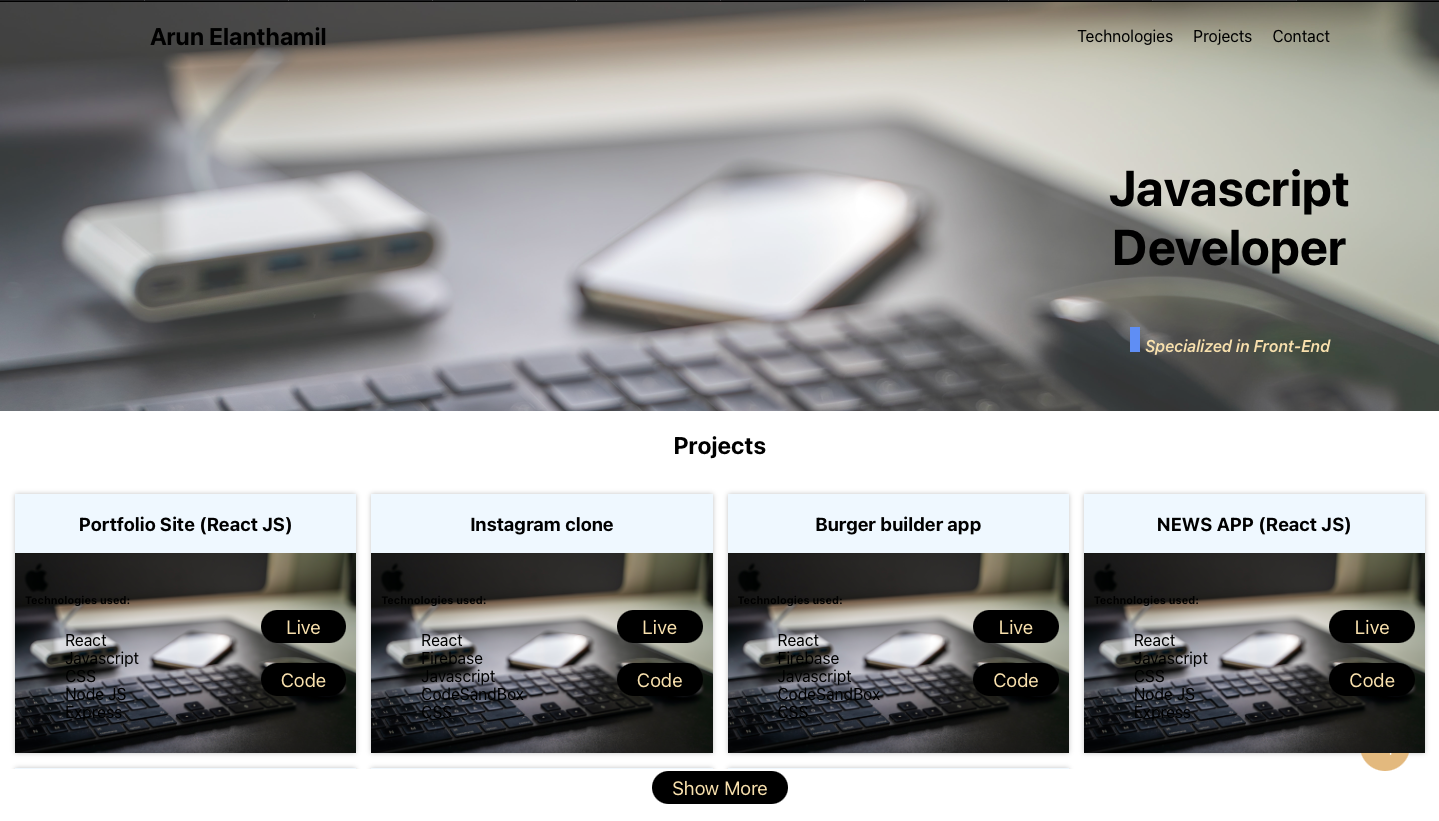
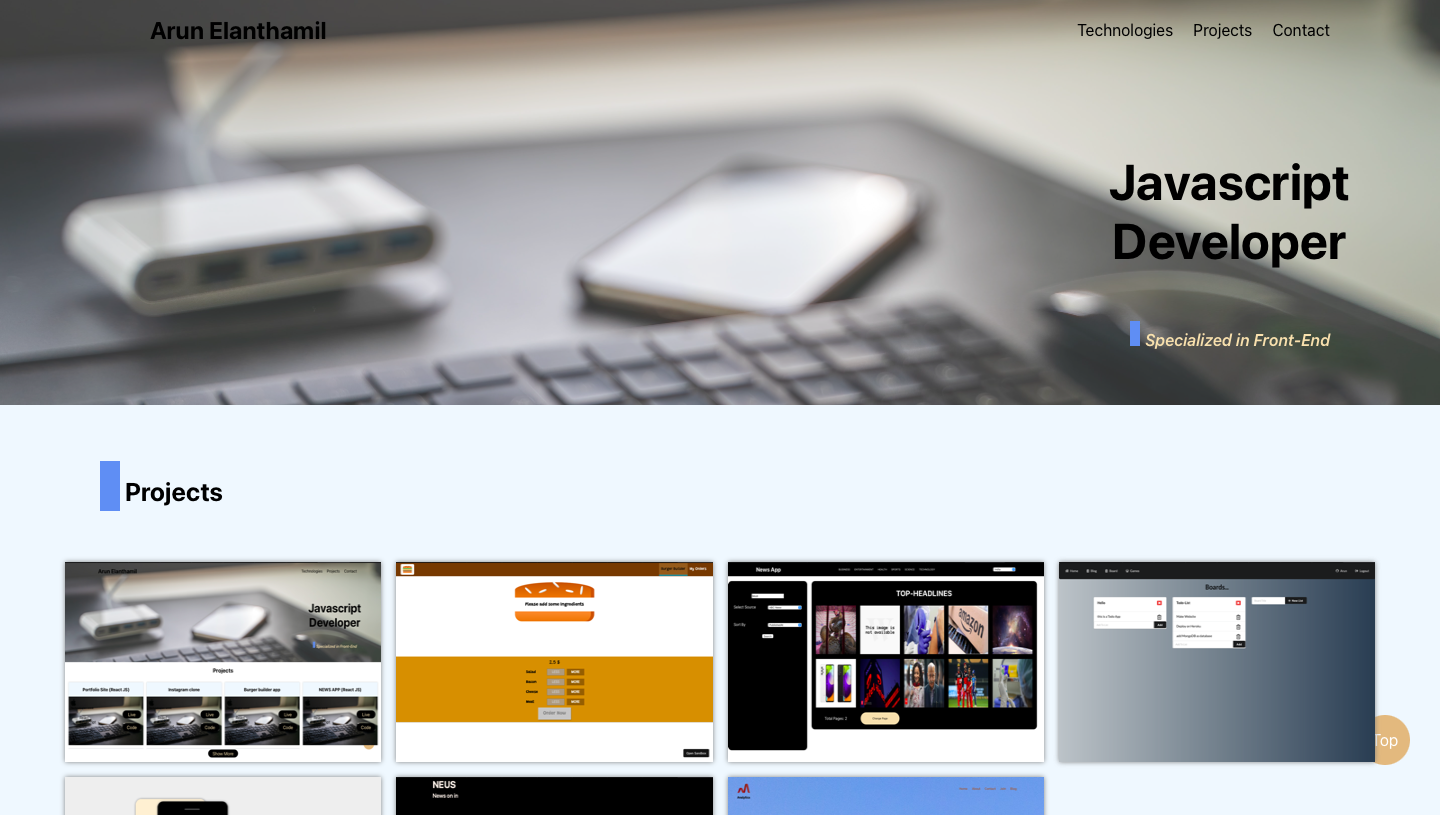
responsive content added

diff --git a/src/components/navigation/navigation.css b/src/components/navigation/navigation.css
@@ -1,0 +1,102 @@
+.Navbar {
+    margin: 0 auto;
+    display: flex;
+    width: 100vw;
+    padding: 10px 15px;
+    box-sizing: border-box;
+    /* background-color: white; */
+    color: wheat;
+    justify-content: space-between;
+    align-items: center;
+}
+.BurgerButton {
+    width: 30px;
+    display: flex;
+    flex-direction: column;
+    gap: 5px;
+}
+.BurgerButton>div {
+    background-color: wheat;
+    height: 2px;
+}
+.Navbar h1 {
+    margin: 0;
+}
+.Navlist {
+    display: none;
+}
+.SideDrawer {
+    display: flex;
+    flex-direction: column;
+    align-items: center;
+    padding: 10px 0;
+    color: black;
+    width: 60%;
+    height: 100vh;
+    top: 0;
+    right: 0;
+    z-index: 200;
+    position: fixed;
+    background-color: wheat;
+    transition: all 0.8s ease-in-out;
+}
+
+.SideDrawer img {
+    width: 50px;
+    height: 50px;
+    left: 0;
+}
+
+.SideDrawerList {
+    width: 100%;
+    padding: 20px 10px;
+    margin: 0;
+    box-sizing: border-box;
+}
+.SideDrawer li {
+    padding: 10px 0;
+}
+.SideDrawerList li a {
+    font-weight: bold;
+}
+
+.closed {
+    opacity: 0;
+    right: -60%;
+    display: none;
+}
+
+.open {
+    opacity: 1;
+    right: 0;
+}
+
+@media (min-width: 500px) {
+    .Navbar {
+        padding: 0 50px;
+        flex-flow: row;
+        justify-content: space-between;
+    }
+    .BurgerButton {
+        display: none;
+    }
+    .Navbar h1 {
+        margin: 0;
+        padding-left: 50px;
+    }
+    .Navlist {
+        display: flex;
+    }
+    .SideDrawer {
+        display: none;
+    }
+    .Navlist li {
+        list-style: none;
+        padding: 10px;
+        transition: transform 0.4s ease-in;
+    }
+    .Navlist>li:hover {
+        text-shadow: 10px 10px 10px 0 black;
+        transform: scale(1.3);
+    }
+}

diff --git a/src/App.css b/src/App.css
@@ -41,43 +41,6 @@ button:disabled {
     opacity: 0.8;
 }
 
-.Navbar {
-    margin: 0 auto;
-    display: flex;
-    flex-flow: row;
-    padding: 0 100px;
-    /* background-color: white; */
-    color: black;
-    justify-content: space-between;
-    align-items: center;
-}
-
-.Sticky {
-    position: sticky;
-    background-color: white;
-    top: 0;
-    width: 100vw;
-}
-
-.Navbar h1 {
-    margin: 0;
-    padding-left: 50px;
-}
-
-.Navlist {
-    display: flex;
-}
-
-.Navlist li {
-    list-style: none;
-    padding: 10px;
-    transition: transform 0.4s ease-in;
-}
-.Navlist>li:hover {
-    text-shadow: 10px 10px 10px 0 black;
-    transform: scale(1.3);
-}
-
 .Intro {
     position: absolute;
     right: 10px;
@@ -112,6 +75,14 @@ button:disabled {
     background-color: cornflowerblue;
 }
 
+.Icons {
+    position: absolute;
+    display: block;
+    background-color: white;
+    width: 100px;
+    height: 100px;
+}
+
 .Maincontent {
     padding: 50px;
     background-color: aliceblue;
@@ -141,19 +112,18 @@ button:disabled {
     display: grid;
     grid-template-columns: 1fr 1fr 1fr 1fr;
     gap: 15px;
-    height: 290px;
     padding: 15px;
     box-sizing: border-box;
     overflow: hidden;
 }
 
-.AllProject {
+/* .AllProject {
     display: grid;
     grid-template-columns: 1fr 1fr 1fr 1fr;
     gap: 15px;
     padding: 15px;
     box-sizing: border-box;
-}
+} */
 
 .ProjectCard {
     width: 100%;

diff --git a/src/components/navigation/navigation.js b/src/components/navigation/navigation.js
@@ -1,14 +1,27 @@
-import React from 'react'
+import React, { useState } from 'react';
+import Navlist from './navlist/navlist';
+import SideDrawer from './sidedrawer/sidedrawer';
+import './navigation.css';
 
 let Navbar = (props) => {
+  let [classes, setClasses] = useState('closed')
+  let ToggleSidedrawer = () => {
+    if (classes === 'closed') {
+      setClasses('open');
+      return false
+    }
+    setClasses('closed');
+  }
     return (
     <nav id="Top" className="Navbar">
         <h1>Arun Elanthamil</h1>
-        <ul className="Navlist">
-        <li><a href="#Technologies">Technologies</a></li>
-        <li><a href="#Projects">Projects</a></li>
-        <li><a href="#Contact">Contact</a></li>
-        </ul>
+        <Navlist classes="Navlist" />
+        <div onClick={ToggleSidedrawer} className="BurgerButton">
+          <div></div>
+          <div></div>
+          <div></div>
+        </div>
+        <SideDrawer classes={classes} closeSideDrawer={ToggleSidedrawer} />
     </nav>
   )
 }

diff --git a/src/containers/main/main.js b/src/containers/main/main.js
@@ -58,16 +58,16 @@ let Main = (props) => {
     },
   ]
 
-  let showAllProjects = () => {
-    if(classes === 'Project') {
-      setClasses('AllProject');
-      setBtnText('Show Less')
-    }
-    else {
-      setClasses('Project');
-      setBtnText('Show More')
-    }
-  }
+  // let showAllProjects = () => {
+  //   if(classes === 'Project') {
+  //     setClasses('AllProject');
+  //     setBtnText('Show Less')
+  //   }
+  //   else {
+  //     setClasses('Project');
+  //     setBtnText('Show More')
+  //   }
+  // }
 
   
 
@@ -78,7 +78,7 @@ let Main = (props) => {
           <div className={classes}>
             <Projects ProjectsList={ProjectsList}/>
           </div>
-          <button onClick={showAllProjects} className="Button">{btnText}</button>
+          {/* <button onClick={showAllProjects} className="Button">{btnText}</button> */}
         </section>
         <section id="Technologies">
           <h1 className="SubTitle">Technologies</h1>

diff --git a/src/assets/images/images.js b/src/assets/images/images.js
@@ -4,6 +4,7 @@ import portfolio from './Portfolio.png';
 import newsReact from './NewsAppReact.png';
 import instacam from './Instacam.png';
 import gsap from './GsapSample.png';
+import back from './Back.png';
 import burgerBuilder from './BurgerBuilder.png';
 import todoList from './Treelo.png';
 import newsJs from './NewsAppJS.png';
@@ -19,6 +20,7 @@ let Images = {
     todoList: todoList,
     newsJs: newsJs,
     gsap: gsap,
+    back: back,
 }
 
 export default Images

diff --git a/src/components/navigation/navlist/navlist.js b/src/components/navigation/navlist/navlist.js
@@ -1,0 +1,14 @@
+import React from 'react';
+import NavlistItem from '../navlistitem/navlistitem';
+
+let Navlist = (props) => {
+    return (
+        <ul className={props.classes}>
+            <NavlistItem {...props} link="#Technologies">Technologies</NavlistItem>
+            <NavlistItem {...props} link="#Projects">Projects</NavlistItem>
+            <NavlistItem {...props} link="#Contact">Contact</NavlistItem>
+        </ul>
+    )
+}
+
+export default Navlist;

diff --git a/src/components/navigation/sidedrawer/sidedrawer.js b/src/components/navigation/sidedrawer/sidedrawer.js
@@ -1,0 +1,14 @@
+import React from 'react';
+import Navlist from '../navlist/navlist';
+import Images from '../../../assets/images/images'
+
+let SideDrawer = (props) => {
+    return (
+        <div className={"SideDrawer " + props.classes}>
+            <img onClick={props.closeSideDrawer} src={Images.back}></img>
+            <Navlist classes="SideDrawerList" closeSideDrawer={props.closeSideDrawer} />
+        </div>
+    )
+}
+
+export default SideDrawer;

diff --git a/src/containers/header/header.js b/src/containers/header/header.js
@@ -6,6 +6,13 @@ let Header = (props) => {
     return (
       <header id="Navbar" className="PageHeader">
         <Navbar />
+        <div>
+          <ul>
+            <li>Send Mail</li>
+            <li>Github</li>
+            <li>Twitter</li>
+          </ul>
+        </div>
         <Intro />
       </header>
     )

diff --git a/src/components/navigation/navlistitem/navlistitem.js b/src/components/navigation/navlistitem/navlistitem.js
@@ -1,0 +1,7 @@
+import React from 'react';
+
+let NavlistItem = (props) => {
+    return <li><a onClick={props.closeSideDrawer} href={props.link}>{props.children}</a></li>
+}
+
+export default NavlistItem;
